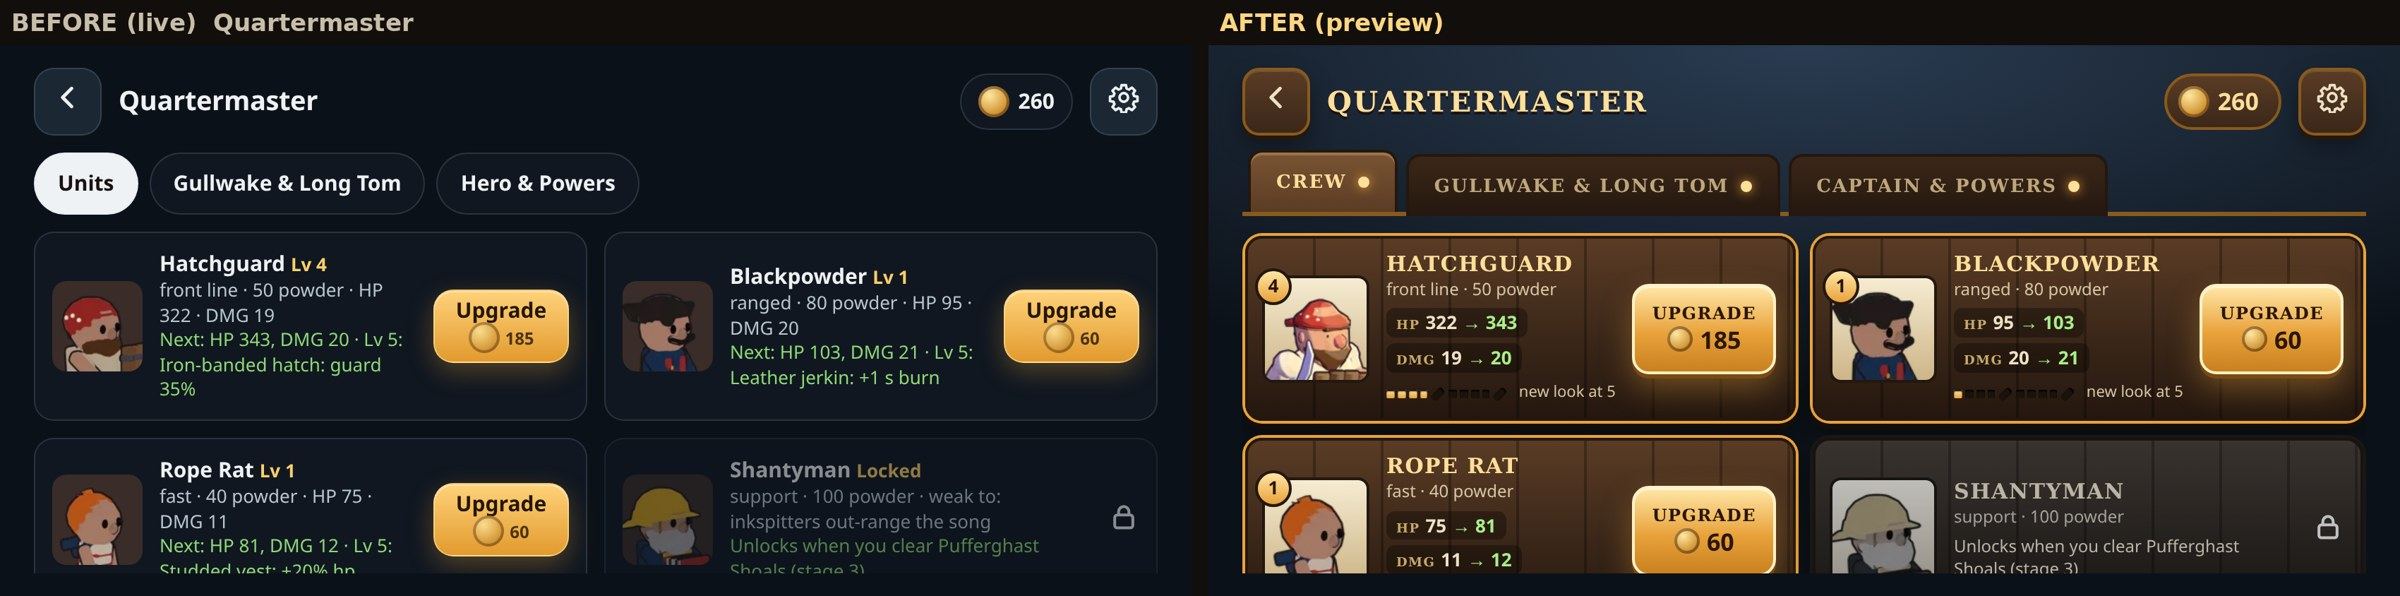
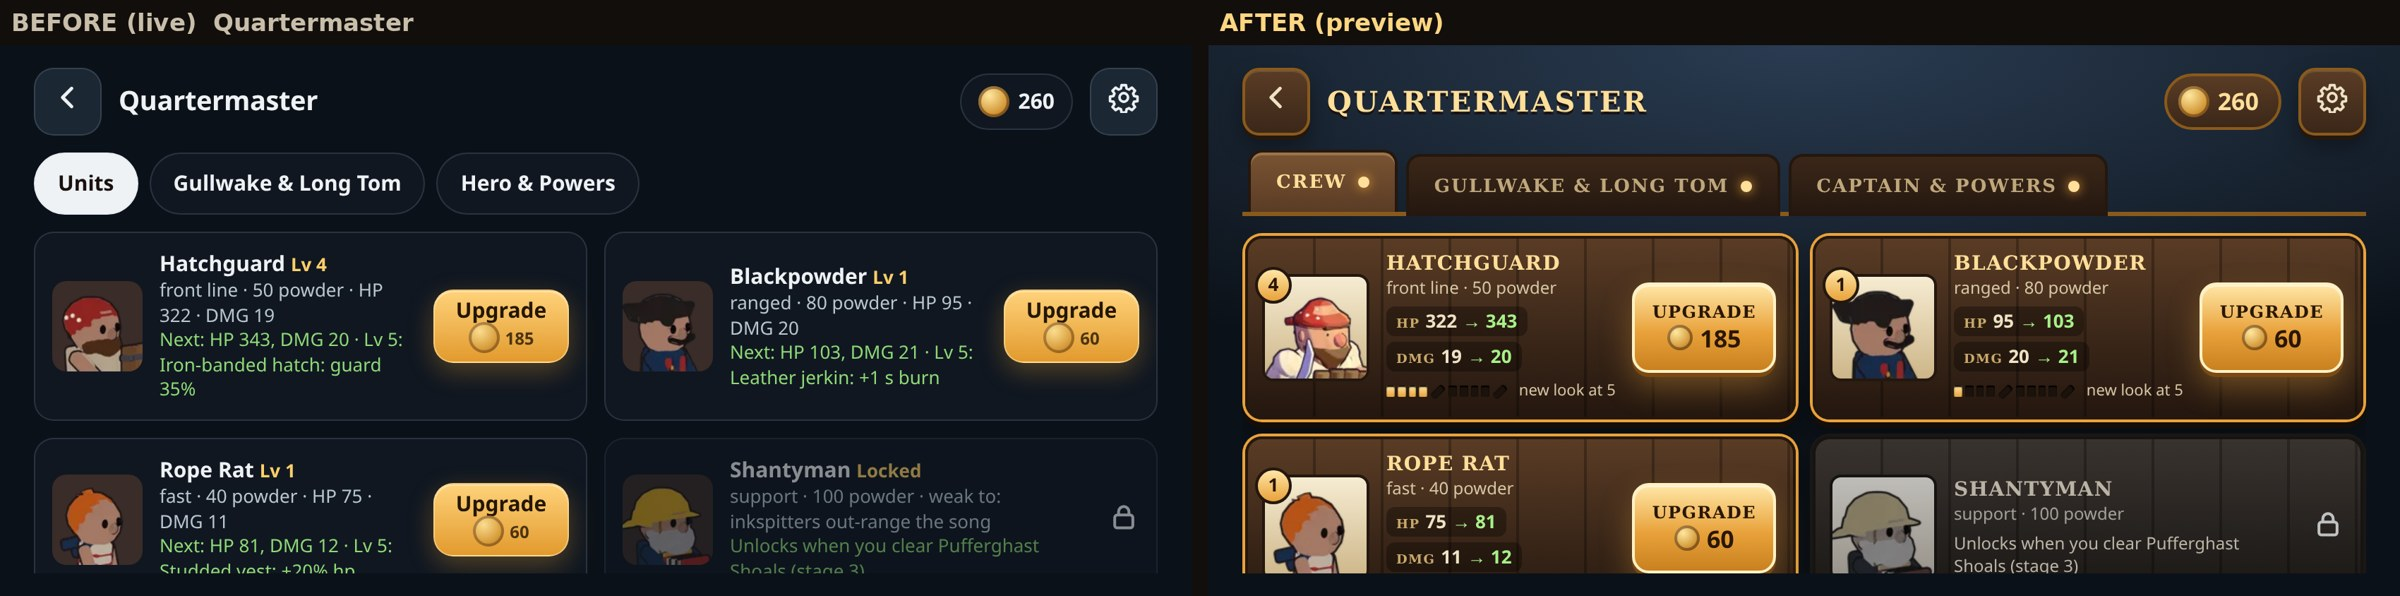
Refresh before/after sheets

diff --git a/tools/compare.py b/tools/compare.py
@@ -1,0 +1,30 @@
+"""Before/after sheets for docs/design/compare (old-*.png from the live build, new-*.png from the preview build)."""
+from PIL import Image, ImageDraw, ImageFont
+import sys; sys.path.insert(0, 'art/blender'); import cast
+O = 'docs/design/compare/'
+F = ImageFont.truetype('/usr/share/fonts/truetype/dejavu/DejaVuSans-Bold.ttf', 34)
+def pair(name, a, b, title=''):
+    A = Image.open(O + a).convert('RGB'); B = Image.open(O + b).convert('RGB')
+    w, h = A.size; S = Image.new('RGB', (w * 2 + 24, h + 64), (18, 14, 12)); S.paste(A, (0, 64)); S.paste(B, (w + 24, 64))
+    d = ImageDraw.Draw(S); d.text((16, 12), 'BEFORE (live)  ' + title, font=F, fill=(200, 190, 170)); d.text((w + 40, 12), 'AFTER (preview)', font=F, fill=(255, 214, 130))
+    S.thumbnail((2400, 2400)); S.save(O + name, quality=88)
+pair('2-stage.jpg', 'old-tutorial.png', 'new-tutorial.png', 'fort and cove')
+pair('3-menu.jpg', 'old-quartermaster.png', 'new-quartermaster.png', 'Quartermaster')
+pair('3b-hud.jpg', 'old-battle.png', 'new-battle.png', 'battle HUD, 0:41')
+pair('4-feel.jpg', 'old-impact.png', 'new-impact.png', 'cannon impact')
+bg = Image.open('public/assets/bg/r1_near.webp').convert('RGBA'); mid = Image.open('public/assets/bg/r1_mid.webp').convert('RGBA'); sky = Image.open('public/assets/bg/r1_sky.webp').convert('RGBA')
+def stage(w=1100, h=520):
+    s = Image.new('RGBA', (w, h), (236, 150, 110, 255)); s.paste(sky.resize((1755, 810)).crop((300, 180, 300 + w, 180 + h)), (0, 0))
+    s.alpha_composite(mid.crop((900, 810 - h - 110, 900 + w, 810 - 110))); s.alpha_composite(bg.crop((1500, 810 - h - 110, 1500 + w, 810 - 110))); return s
+def put(s, job, sid, frame, x, gy=405, ppu_to=120):
+    J = cast.JOBS[job]; cw, ch = J['cell']; ids = J['ids']; i = ids.index(sid); cols = min(J['cols'], len(ids))
+    im = Image.open('art/out/%s/frame_%04d.png' % (job, frame)).convert('RGBA').crop(((i % cols) * cw, (i // cols) * ch, (i % cols + 1) * cw, (i // cols + 1) * ch))
+    k = ppu_to / J['ppu']; im = im.resize((int(cw * k), int(ch * k)), Image.LANCZOS); ax, ay = cast.cell_anchor(job, sid); s.alpha_composite(im, (x - int(ax * k), gy - int(ay * k)))
+old = stage(); new = stage()
+for x, f in ((190, 1), (430, 19)): put(old, 'units', 'ashguard', f, x)
+for x, f in ((700, 1), (930, 19)): put(old, 'field', 'husk', f, x)
+for x, f in ((190, 1), (430, 22)): put(new, 'v2', 'ashguard', f, x)
+for x, f in ((700, 1), (930, 22)): put(new, 'v2', 'husk', f, x)
+S = Image.new('RGB', (2224, 584), (18, 14, 12)); S.paste(old.convert('RGB'), (0, 64)); S.paste(new.convert('RGB'), (1124, 64))
+d = ImageDraw.Draw(S); d.text((16, 14), 'BEFORE (live)  Hatchguard and Drowner: standing, striking', font=F, fill=(200, 190, 170)); d.text((1140, 14), 'AFTER (preview)', font=F, fill=(255, 214, 130))
+S.save(O + '1-characters.jpg', quality=88)
